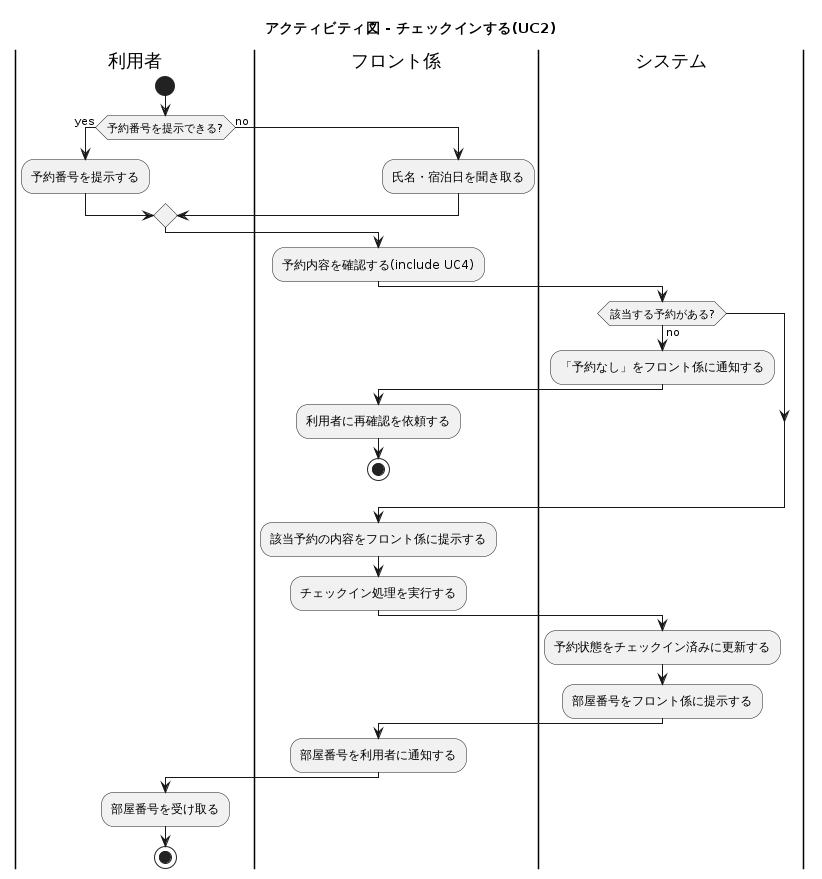
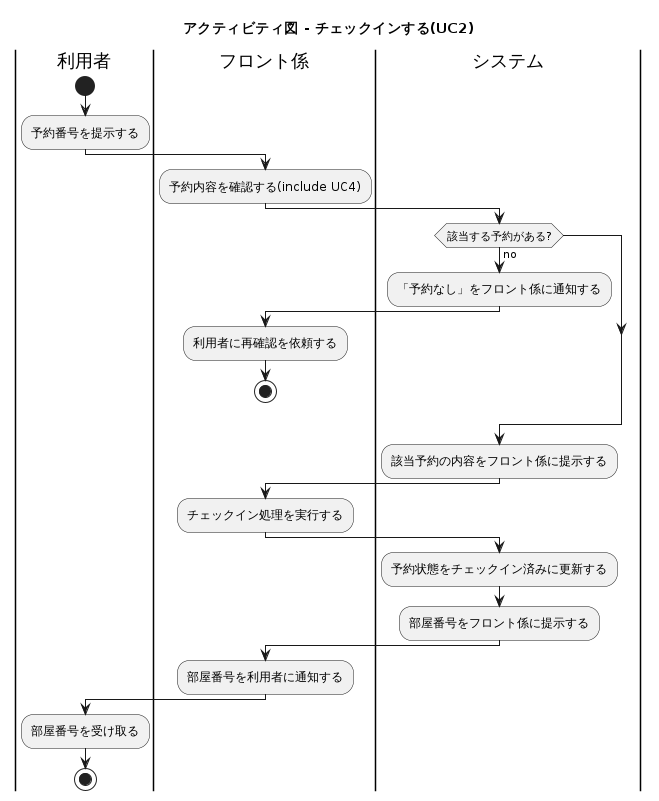
docs(uml): 裏付けのない代替フローを削除して整合させる
## 背景
課題10として「UC2・UC4の代替フロー『氏名・宿泊日で予約を検索する』が未実装」を
挙げていた。実装するか記述を削るかの判断のため配布資料を確認したところ、
この代替フローは配布資料に一切現れないものだった。

- `SE2026A-No.10-2-チーム開発1.pdf` に「氏名」「宿泊者名」での予約検索の記述はない
- p12のシナリオは「(2)予約番号の確認 →(3)係へ予約番号を伝達 →(4)チェックインの手続き」と
  予約番号での特定に統一されている
- 演習2の指示も「重要な動作を3つ以上特定し」だけで、代替フローの粒度指定はない

つまり分析時に独自に足したものであり、実装・記述・図のどれもが追随しないまま
残っていた。

## 対応内容
記述側を削る方針を採り、関連する成果物すべてから取り除いた。

- `04`: UC2・UC4の代替フローを「なし（予約番号の提示／入力を前提とする）」に変更
- `06`: 「予約番号を提示できる?」の分岐と「氏名・宿泊日を聞き取る」を削除
- `08b` / `08d`: `1'` の代替メッセージを削除し、`予約を検索する(予約番号 または 氏名・宿泊日)`
  を `予約を検索する(予約番号)` に変更
- `09`: `InquiryControl` から `予約を検索する(氏名, 宿泊日)` を削除
- `04` の冒頭に、代替・例外フローは「配布資料のシナリオに現れる事象と、実装で扱う事象」
  だけを記述する方針を明記した。思いつく分岐を網羅すると、記述・図・実装のどれかが
  必ず追随できなくなるため

## 併せて修正したもの
`06` で「該当予約の内容をフロント係に提示する」がフロント係レーンに描かれていた。
分岐の中でレーンを切り替えたまま `endif` を抜けていたことによる、以前からの誤り。
`endif` の後にレーンを明示して修正した。

## 残る差分
UC5の基本フロー手順5・6（キャンセルの確認）が実装されていないことを確認したため、
課題12として記録した。こちらは画面に確認ステップを足すのが素直と考える。

Changed region(s): [[0.0, 0.0, 1.0, 0.9988], [0.7284, 0.0624, 0.8498, 0.0936]]

diff --git a/docs/uml/11_review_checklist.md b/docs/uml/11_review_checklist.md
@@ -45,7 +45,7 @@
 | ユースケース | 現在時制かつ能動態の動詞句としてユースケース名がつけられている | ○ | 「部屋を予約する」「チェックインする」「予約をキャンセルする」等、すべて現在時制の能動態 |
 | ユースケース | 全てのユースケースの抽象度はおおむね同程度である | ○ | 5つすべてが「1回の窓口対応で完結する処理」の粒度。UC4のみ他UCからincludeされる共通機能だが、単独でも利用者が使える単位である |
 | アクタ | 関わるユースケースとのみ関係づけられている | ○ | 「アクタ＝システムを操作する者」に統一した。図は利用者→UC1/UC4/UC5、フロント係→UC2/UC3/UC4。UC2・UC3で利用者は窓口で対応を受けるだけでシステムに触れないため関連づけない（対面の振る舞いは基本フローのステップとアクティビティ図06・07のスイムレーンに残る）。フロント係はUC2からのinclude経由だけでなく窓口での問い合わせ対応としてUC4を単独でも起動するため直接の関連線を引いた。ユースケース記述（04）・コラボレーション図（08a〜08e）・フロントエンドの配信単位（`packages/guest` / `packages/staff`）の4者でアクタが一致している |
-| ユースケース記述 | 必要な事前条件、事後条件、基本系列、代替・例外系列を明確かつ簡潔に記述している | ○ | 全5UCで5項目すべてを記述。代替系列は正常系の分岐、例外系列は異常事象への対応として分けた |
+| ユースケース記述 | 必要な事前条件、事後条件、基本系列、代替・例外系列を明確かつ簡潔に記述している | ○ | 全5UCで5項目すべてを記述。代替系列は正常系の分岐、例外系列は異常事象への対応として分けた。記述する範囲は「配布資料のシナリオに現れる事象と、実装で扱う事象」に限る方針を `04` の冒頭に明記しており、UC2・UC4の代替系列は該当なしとしている（予約の特定は予約番号に統一） |
 | ユースケース記述 | システムへの入力に加えて、システムからの応答を明記している | ○ | アクタの入力ステップの直後にシステムの応答ステップを置いた（例: UC1「1. 利用者が宿泊日・客室タイプを指定する」→「2. システムが該当する空室一覧を提示する」） |
 | ユースケース記述 | 各ステップは現在時制と能動句で記述されている | ○ | 全ステップを「〜が〜する」の能動句で統一 |
 
@@ -96,7 +96,7 @@
 | 全体 | 設計モデルに適合する形で、構造、振る舞い、関連、相互作用が実装されている | ○ | 09のBCE分類が層に、クラス名がモジュール／クラス名に対応。対応表は `10_architecture_design.md` 第5節 |
 | 全体 | 必要に応じて再利用が行われている | ○ | UC4（予約内容の確認）をUC2・UC5からinclude。FastAPI・SQLAlchemy・Pydantic・sqlc等の既存資産を利用し、DTO変換は `from_domain` に共通化 |
 | 全体 | 意図が分かりやすく実装されている | ○ | 各モジュール冒頭のdocstringに対応するUC番号とBCE種別、設計意図（トランザクション境界をどこに置くか等）を日本語で記載 |
-| 全体 | 全ての機能が実装されている | △ | UC1〜UC5の基本フローと、予約前の部屋タイプ閲覧をAPI・画面の両方で実装した。疎通は `apps/backend/scripts/verify_api.py`（UC1→UC2→UC3→UC5 と部屋タイプ閲覧を順に叩くスモークテスト）で確認できる。ただし**UC2・UC4の代替フロー「氏名・宿泊日で予約を検索する」が未実装**で、09の `InquiryControl.予約を検索する(氏名, 宿泊日)` に対応するAPI・画面がない（検索の入口は予約番号のみ）。詳細は課題一覧 #10 |
+| 全体 | 全ての機能が実装されている | △ | UC1〜UC5の基本フローと全ての代替・例外フロー、および予約前の部屋タイプ閲覧をAPI・画面の両方で実装した。疎通は `apps/backend/scripts/verify_api.py`（UC1→UC2→UC3→UC5 と部屋タイプ閲覧を順に叩くスモークテスト）で確認できる。残る差分はUC5の基本フロー手順5・6（キャンセルの確認）で、画面が確認を挟まず即座にキャンセルを実行する。詳細は課題一覧 #12 |
 | 要素 | 全ての属性・変数・引数が適切に初期化・代入されている | ○ | エンティティは `frozen dataclass` で生成時に全属性を確定。未初期化・部分初期化は mypy strict が検出する |
 | 要素 | 各メソッドの大きさと複雑さは適切に抑えられている | ○ | Controlのメソッドはユースケースの1手順に対応する。最長は `CheckOutControl.pay()` の28行。UC3のみ手順が分かれるため `CheckOutControl` は3メソッドを持つが、いずれも09の操作（`料金を計算する()` / `料金を取得する()` / `支払いを記録する()`）と08cのメッセージに対応する。料金計算そのものはドメイン層に委譲して分岐を持たせていない |
 | 要素 | 命名は分かりやすく一貫している | ○ | 09のクラス名と実装のクラス名を一致させた（`CheckInControl`, `Reservation.check_in()` 等）。ruff の import 順・整形規則をCIで強制 |
@@ -127,5 +127,6 @@
 | 7 | パッケージ設計原則 CRP・CCP・SAP が部分的 | Repository を `Protocol` で抽象化すればSAPと依存性逆転が明確になる。CCPは層分離とのトレードオフとして受容 | 中 |
 | 8 | 実装上の制約「提供される部分実装に従うこと」に従っていない | 「または他言語」の許容に基づく判断としてレポートに明記する | — |
 | 9 | アプリケーション層（コントロール）のテストがない | 実DBを使う統合テストジョブの追加、またはRepositoryのDI化が必要 | 中 |
-| 10 | UC2・UC4の代替フロー「氏名・宿泊日で予約を検索する」が未実装（09の `InquiryControl.予約を検索する(氏名, 宿泊日)` に対応するAPI・画面がない） | 実装する（クエリ・API・両アプリの検索フォーム）か、実装範囲を絞った判断としてこの表に残すかを選ぶ。窓口業務としては予約番号を持たない利用者への対応が実際に発生するため、要求分析の記述自体は正しく、削るべきではない | 中 |
+| 10 | ~~UC2・UC4の代替フロー「氏名・宿泊日で予約を検索する」が未実装~~ | 対応済み: 配布資料のシナリオが予約番号での特定に統一されており、この代替フローは分析時に独自に足したものだった。記述側を削り、04・06・08b・08d・09から取り除いて整合させた | 小 |
+| 12 | UC5の基本フロー手順5・6（システムがキャンセルの確認を求め、利用者が確定する）が実装されていない。画面は確認を挟まずキャンセルを実行する | 確認ステップを画面に足すのが素直（記述・図の変更が不要で、誤操作の防止にもなる）。記述側を削る場合は 08e とアクティビティ図も併せて直す必要がある | 小 |
 | 11 | ~~`CheckOutControl.find_charge()`（`GET /reservations/{id}/charge`）に対応する操作が09に、メッセージが08cにない~~ | 対応済み: 09に `料金を取得する(予約番号)` を追加し、08cに再表示パス `1'` のメッセージを追加 | 小 |

diff --git a/docs/uml/04_usecase_description.md b/docs/uml/04_usecase_description.md
@@ -7,6 +7,11 @@ PlantUMLは図のための言語であり、ユースケース記述は本来テ
 システムの応答を明記する。代替フロー（正常系の分岐）と例外フロー（異常事象への対応。
 ユースケースの終了、または基本フローへの復帰で終わる）は分けて記述する。
 
+代替フロー・例外フローは、**配布資料のシナリオに現れる事象と、実装で扱う事象だけ**を
+記述する。思いつく分岐を網羅すると、記述・図・実装のどれかが必ず追随できなくなるためである。
+配布資料（`SE2026A-No.10-2-チーム開発1.pdf` p12）のシナリオは予約番号での特定に統一されて
+いるため、氏名・宿泊日での予約検索は扱わない。
+
 「アクター」欄には**システムを操作する者だけ**を挙げる。UC2・UC3では利用者は窓口で
 対応を受けるだけでシステムに触れないため、アクターはフロント係のみとする。利用者の
 対面での振る舞い（予約番号の提示、部屋番号の受け取り等）は基本フローのステップと
@@ -33,7 +38,7 @@ PlantUMLは図のための言語であり、ユースケース記述は本来テ
 | 事前条件 | 予約が「予約済み」状態で存在する |
 | 事後条件 | 予約が「チェックイン済み」状態になり、部屋番号が利用者に通知されている |
 | 基本フロー | 1. 利用者が予約番号を提示する<br>2. フロント係が予約内容を確認する（include UC4）<br>3. システムが該当予約の内容をフロント係に提示する<br>4. フロント係がチェックイン処理を実行する<br>5. システムが予約状態をチェックイン済みに更新する<br>6. システムが部屋番号をフロント係に提示する<br>7. フロント係が部屋番号を利用者に通知する |
-| 代替フロー | 1a. 利用者が予約番号を提示できない場合<br>　1a1. フロント係が氏名・宿泊日で予約を検索する<br>　1a2. 基本フローの手順3に進む |
+| 代替フロー | なし（予約番号の提示を前提とする） |
 | 例外フロー | 3a. システムが該当する予約を検出できない場合<br>　3a1. システムが「予約なし」をフロント係に通知する<br>　3a2. フロント係が利用者に再確認を依頼する<br>　3a3. ユースケースを終了する |
 
 ## UC3: チェックアウトする
@@ -57,7 +62,7 @@ PlantUMLは図のための言語であり、ユースケース記述は本来テ
 | 事前条件 | 確認対象の予約が登録されている |
 | 事後条件 | 予約内容が提示されている（予約の状態は変化しない） |
 | 基本フロー | 1. アクターが予約番号を入力する<br>2. システムが該当予約を検索する<br>3. システムが予約内容（宿泊日・客室タイプ・予約状態）を提示する |
-| 代替フロー | 1a. アクターが予約番号を提示できない場合<br>　1a1. アクターが氏名・宿泊日を入力する<br>　1a2. システムが該当予約を検索する<br>　1a3. 基本フローの手順3に進む |
+| 代替フロー | なし（予約番号の入力を前提とする） |
 | 例外フロー | 2a. システムが該当する予約を検出できない場合<br>　2a1. システムが「予約なし」をアクターに通知する<br>　2a2. ユースケースを終了する |
 
 ## UC5: 予約をキャンセルする
